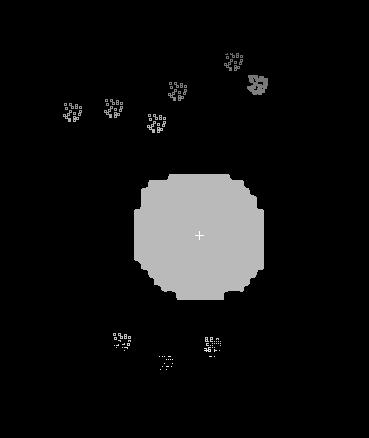
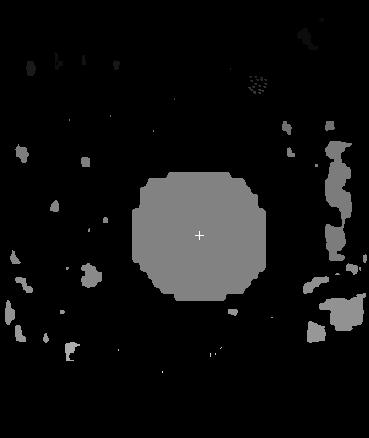
dfs

diff --git a/main.py b/main.py
@@ -9,6 +9,8 @@ from skimage.filters import threshold_multiotsu
 
 from PIL import Image
 
+from collections import deque
+
 PATH = "solda.png"
 
 def otsu_histogram(im:object, thresholds: tuple):
@@ -16,27 +18,29 @@ def otsu_histogram(im:object, thresholds: tuple):
 
 def binary_threshold(im:object)->object:
     image = Image.fromarray(np.uint8(im)).convert('L')
+
     (l, h) = image.size
 
     out = Image.new(mode='L', size=(l, h))
 
     for j in range(0, h):
         for i in range(0, l):
-            if image.getpixel((i, j)) > 1:
+            if image.getpixel((i, j)) == 0:
                 out.putpixel(
                     (i, j),
-                    1055
+                    0
                 )
             else:
                 out.putpixel(
                     (i, j),
-                    0
+                    255
                 )
 
     return out
 
 def threshold(im:object)->object:
     thresholds = threshold_multiotsu(im)
+
     regions = np.digitize(image, bins=thresholds)
 
     return binary_threshold(regions)
@@ -67,83 +71,106 @@ def NO(im:object, coordinate:tuple, size:int)->bool:
     (i, j) = coordinate
 
     if im.getpixel((i - 1, j - 1)) == size:
-        return True
-    return False
+        return (i - 1, j - 1)
+    return None
 
-def N(im:object, coordinate:tuple, size:int)->bool:
+def N(im:object, coordinate:tuple, size:int)->tuple:
     (i, j) = coordinate
     
     if im.getpixel((i - 1, j)) == size:
-        return True
-    return False
+        return (i - 1, j)
+    return None
 
 def NE(im:object, coordinate:tuple, size:int)->bool:
     (i, j) = coordinate
     
     if im.getpixel((i - 1, j + 1)) == size:
-        return True
-    return False
+        return (i - 1, j + 1)
+    return None
 
 def O(im:object, coordinate:tuple, size:int)->bool:
     (i, j) = coordinate
     
     if im.getpixel((i, j - 1)) == size:
-        return True
-    return False
+        return (i, j - 1)
+    return None
 
 def L(im:object, coordinate:tuple, size:int)->bool:
     (i, j) = coordinate
     
     if im.getpixel((i, j + 1)) == size:
-        return True
-    return False
+        return (i, j + 1)
+    return None
 
 def SO(im:object, coordinate:tuple, size:int)->bool:
     (i, j) = coordinate
     
     if im.getpixel((i + 1, j - 1)) == size:
-        return True
-    return False
+        return (i + 1, j - 1)
+    return None
 
 def S(im:object, coordinate:tuple, size:int)->bool:
     (i, j) = coordinate
     
     if im.getpixel((i + 1, j)) == size:
-        return True
-    return False
+        return (i + 1, j)
+    return None
 
 def SE(im:object, coordinate:tuple, size:int)->bool:
     (i, j) = coordinate
     
     if im.getpixel((i + 1, j + 1)) == size:
-        return True
-    return False
+        return (i + 1, j + 1)
+    return None
 
-def calculate_coordinate(im, coordinate:tuple, size:int)->bool:
+def calculate_coordinate(im, coordinate:tuple, size:int)->list:
     list_cordinate_functions = [NO, N, NE, O, L, SO, S, SE]
     list_pixels = [] # [NO, N, NE, O, L, SO, S, SE]
 
     for fi in list_cordinate_functions:
         list_pixels.append(fi(im, coordinate, size))
 
-    return True in list_pixels
+    return [i for i in list_pixels if i != None]
+
+def dfs(im:object, out:object, coordinate:tuple, components:int)->set:
+    set_coordinates:set = set()
+    queue:deque = deque()
+
+    set_coordinates.add(coordinate)
+    queue.append(coordinate)
+
+    while queue:
+        for i in range(len(queue)):
+            (i, j) = queue.popleft()
+
+            coordinates = calculate_coordinate(im, (i, j), 255)
+
+            if len(coordinates) != 0:
+                out.putpixel((i, j), components)
+                for k in coordinates:
+                    if k not in set_coordinates:
+                        queue.append(k)
+                    set_coordinates.add(k)
+
+    return set_coordinates
 
 def lettering_counting(im:object)->tuple:
     (l, h) = im.size
 
-    list_components = [1]
+    components = 10
+
+    list_components:list = [components]
+    set_coordinates:set = set()
 
     out = Image.new(mode='L', size=(l, h))
 
-    components = 1
-
     for j in range(1, h - 1):
         for i in range(1, l - 1):
-            if calculate_coordinate(im, (i, j), 255):
-                out.putpixel((i, j), 100 + components)
-            elif im.getpixel((i, j)) != 0:
-                components += 1
-                list_components.append(components)
+            if im.getpixel((i, j)) != 0 and (i, j) not in set_coordinates:
+               set_coordinates = set_coordinates.union(dfs(im, out, (i, j), components)) 
+               components += 1
+               list_components.append(components)
+            elif im.getpixel((i, j)) == 0:
                 out.putpixel((i, j), 0)
 
     return (out, list_components)
@@ -189,7 +216,7 @@ def max_component(im:object, list_components:list)->int:
     dict_components = {}
 
     for i in list_components:
-        dict_components[i + 100] = 0
+        dict_components[i] = 0
 
     for j in range(0, h):
         for i in range(0, l):
@@ -223,28 +250,39 @@ def center_of_mass_image(im:object, list_components:list)->tuple:
         
     return (ceil(sum_x/cont_x), ceil(sum_y/cont_y))
 
+def psudo_color(im: object):
+    ...
+    
+def main(file: str):
+    ...
+
 def open_image(im:str, gray:bool = True)->object:
     return imread(im, as_gray=gray)
+
+
 
 if __name__ == "__main__":
     image = open_image(PATH, True)
 
-    image = threshold(image)
+    threshold_image = threshold(image)
 
-    image.save("results/threshold.jpg")
+    threshold_image.save("results/binary_threshold.jpg")
 
-    zero_image = zero_frame(image)
+    zero_image = zero_frame(threshold_image)
 
     zero_image.save("results/zero_image.jpg")
 
     (components_image, list_components) = lettering_counting(zero_image)
+
+    components_image.save("results/components_threshold.jpg")
     
     list_components_side = list(identifica_side(components_image))
+    # print(list_components_side)
 
     remove_side_component_image = remove_side_component(components_image, list_components_side)
     remove_side_component_image.save("results/remove_side_component_image.jpg")
 
-    print(max_component(remove_side_component_image, list_components))
+    # print(max_component(remove_side_component_image, list_components))
 
     (i, j) = center_of_mass_image(remove_side_component_image, list_components)
     print(i, j)
